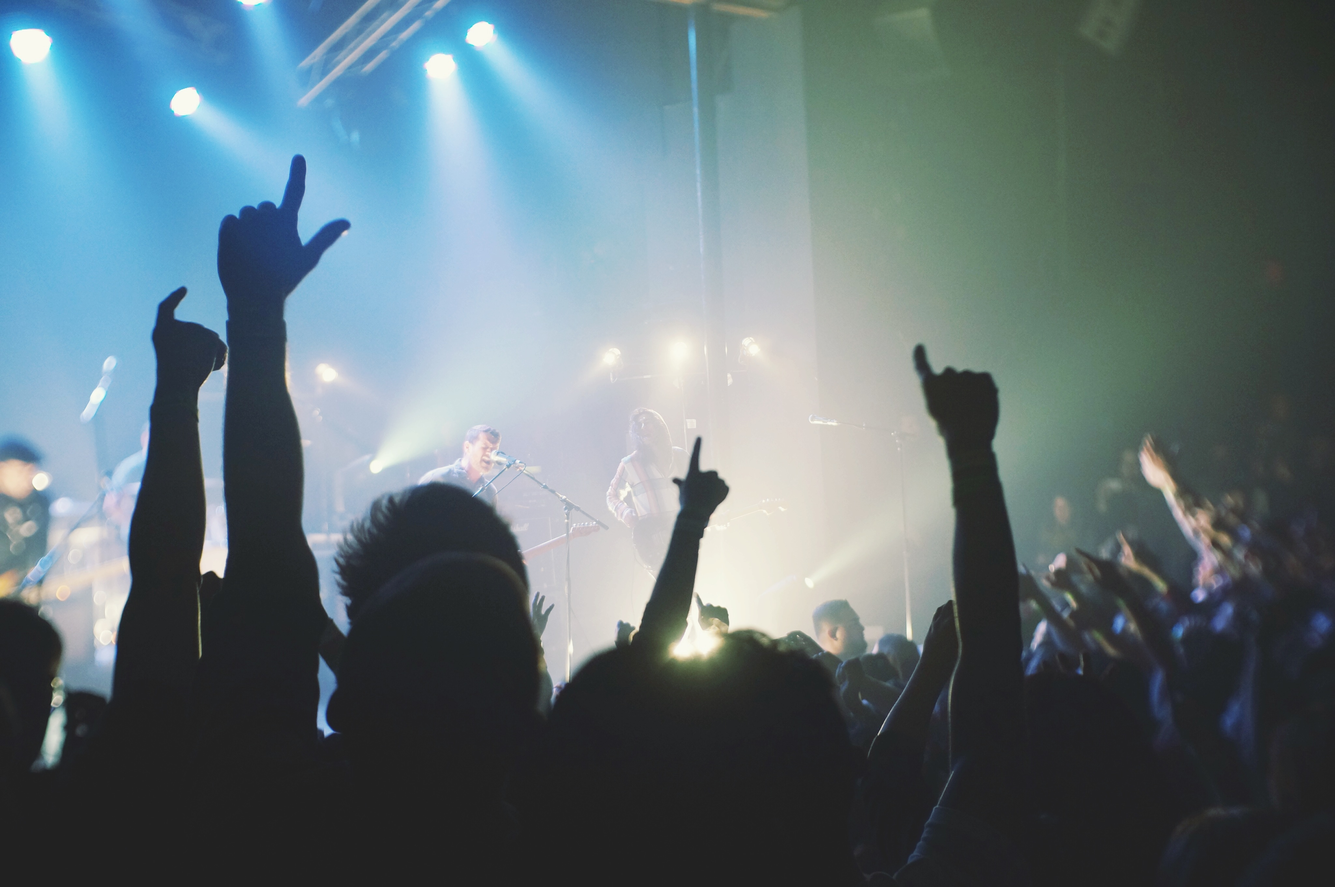
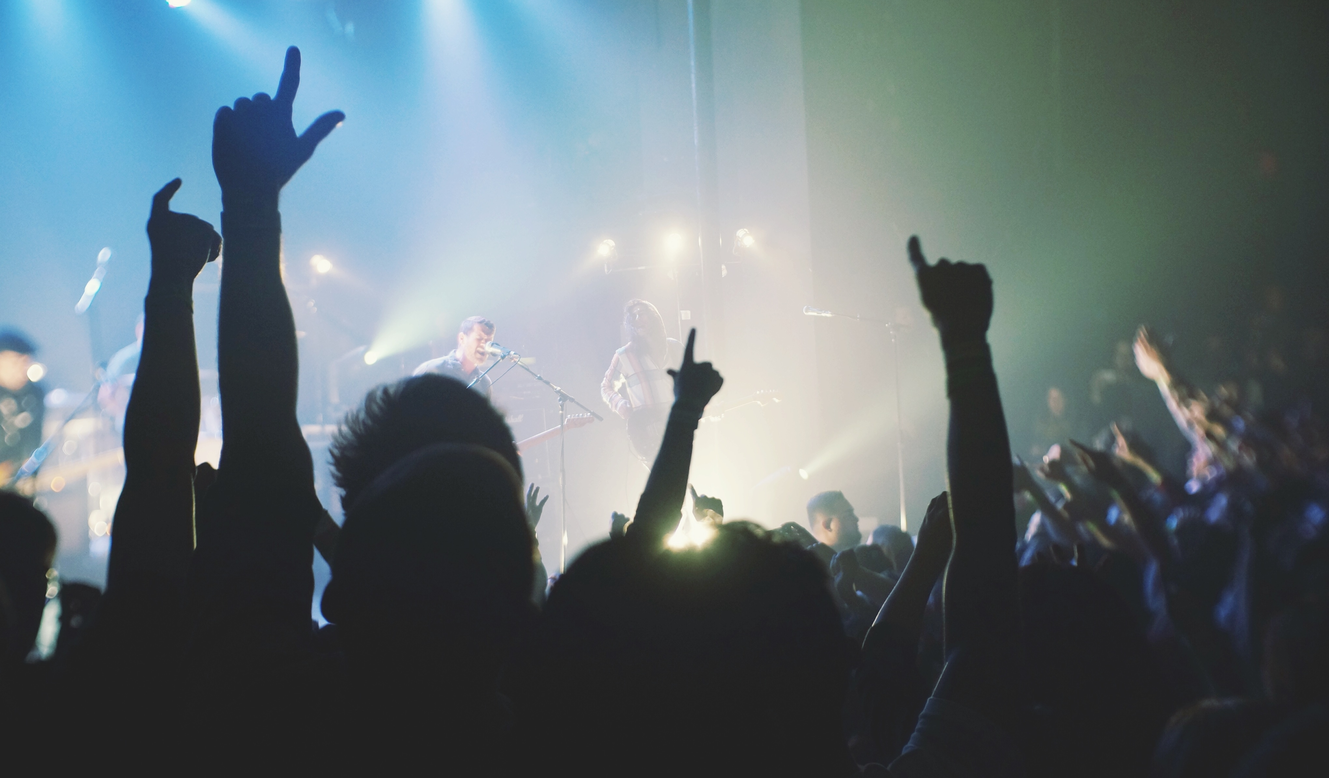
Finished Hero

diff --git a/app/assets/stylesheets/master.css.scss b/app/assets/stylesheets/master.css.scss
@@ -18,9 +18,37 @@
  	-moz-background-size: cover;
   	-o-background-size: cover;
   	background-size: cover;
-	height: 410px;
+	height: 500px;
+  box-shadow: 0px 3px 8px #2a2a2a;
 }
 
 h1, h2, h3, h4, h5, h6, .navbar {
   margin:0;
+}
+
+.frosty {
+  background:rgba(0,0,0, 0.5);
+  color: white;
+}
+
+.frosty h1 {
+  font-family: "Helvetica Neue", Helvetica;
+  font-weight: 200;
+  text-shadow: rgba(0,0,0,0.95) 1px 1px;
+}
+
+.frosty h2 {
+  font-family: "Helvetica Neue", Helvetica;
+  font-weight: 200;
+  text-shadow: rgba(0,0,0,0.95) 1px 1px;
+}
+
+.frosty h3 {
+  font-family: "Helvetica Neue", Helvetica;
+  font-weight: 200;
+  text-shadow: rgba(0,0,0,0.95) 1px 1px;
+}
+
+.btn {
+  border-radius: 0;
 }
